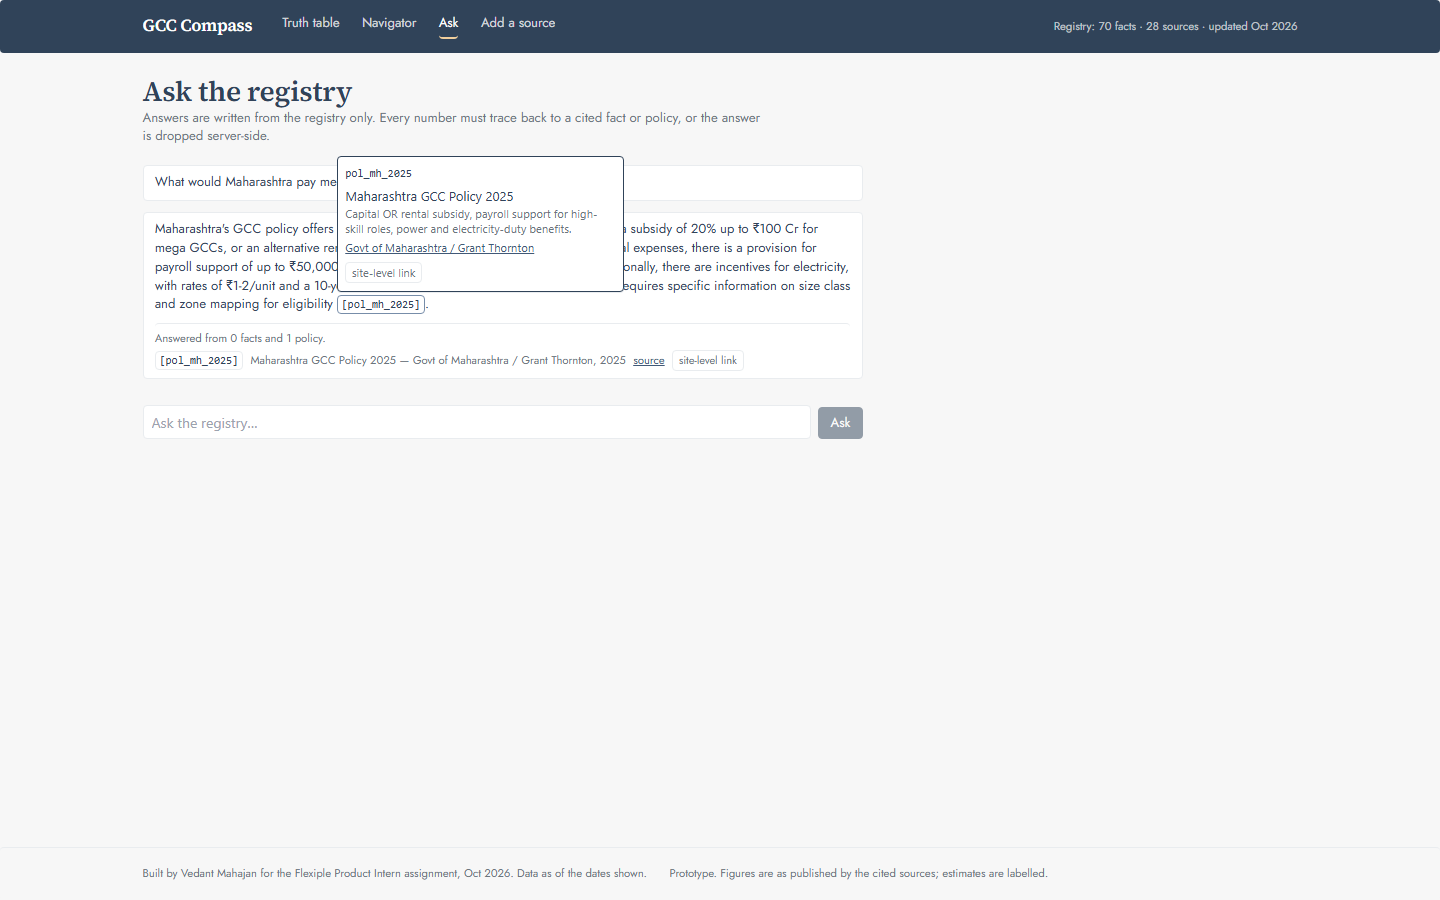
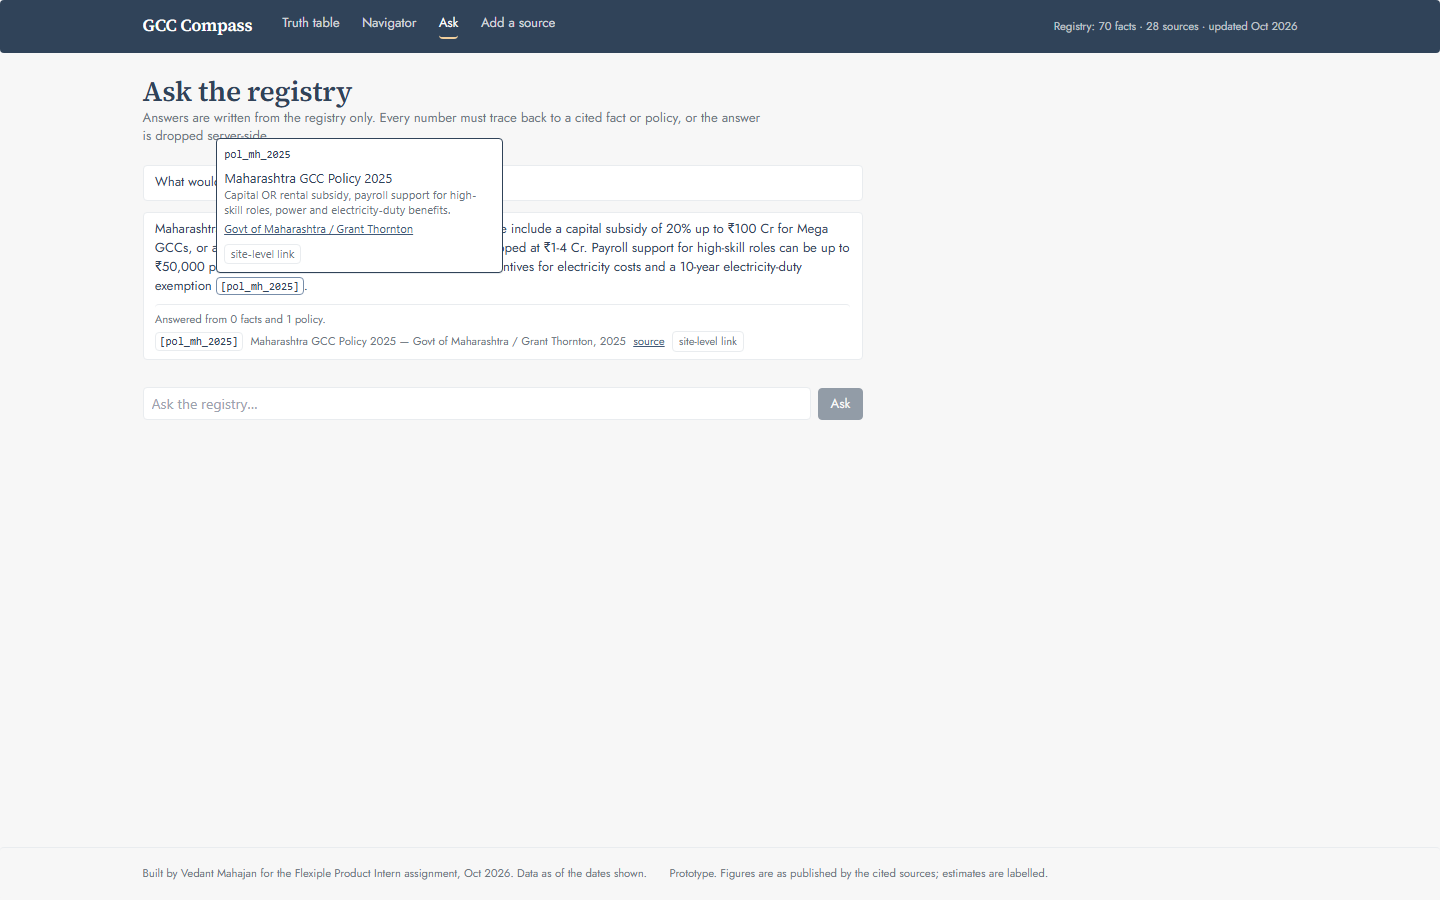
add the styled app-level 404 page

Changed region(s): [[0.0938, 0.1556, 0.5938, 0.4044], [0.5625, 0.4044, 0.625, 0.4978], [0.0938, 0.4356, 0.1562, 0.4978]]

diff --git a/app/not-found.tsx b/app/not-found.tsx
@@ -1,0 +1,24 @@
+import Link from "next/link";
+
+export default function NotFound() {
+  return (
+    <div className="max-w-2xl">
+      <h1>This page doesn&apos;t exist</h1>
+      <p className="text-sm text-muted mt-2">
+        The link may be wrong or truncated. A plan link is long by design — it carries the inputs,
+        the weights and every citation in the URL itself.
+      </p>
+      <div className="flex items-center gap-4 mt-4 text-sm">
+        <Link href="/truth" className="text-slate underline">
+          Truth table
+        </Link>
+        <Link href="/navigator" className="text-slate underline">
+          Setup Navigator
+        </Link>
+        <Link href="/ask" className="text-slate underline">
+          Ask the registry
+        </Link>
+      </div>
+    </div>
+  );
+}
